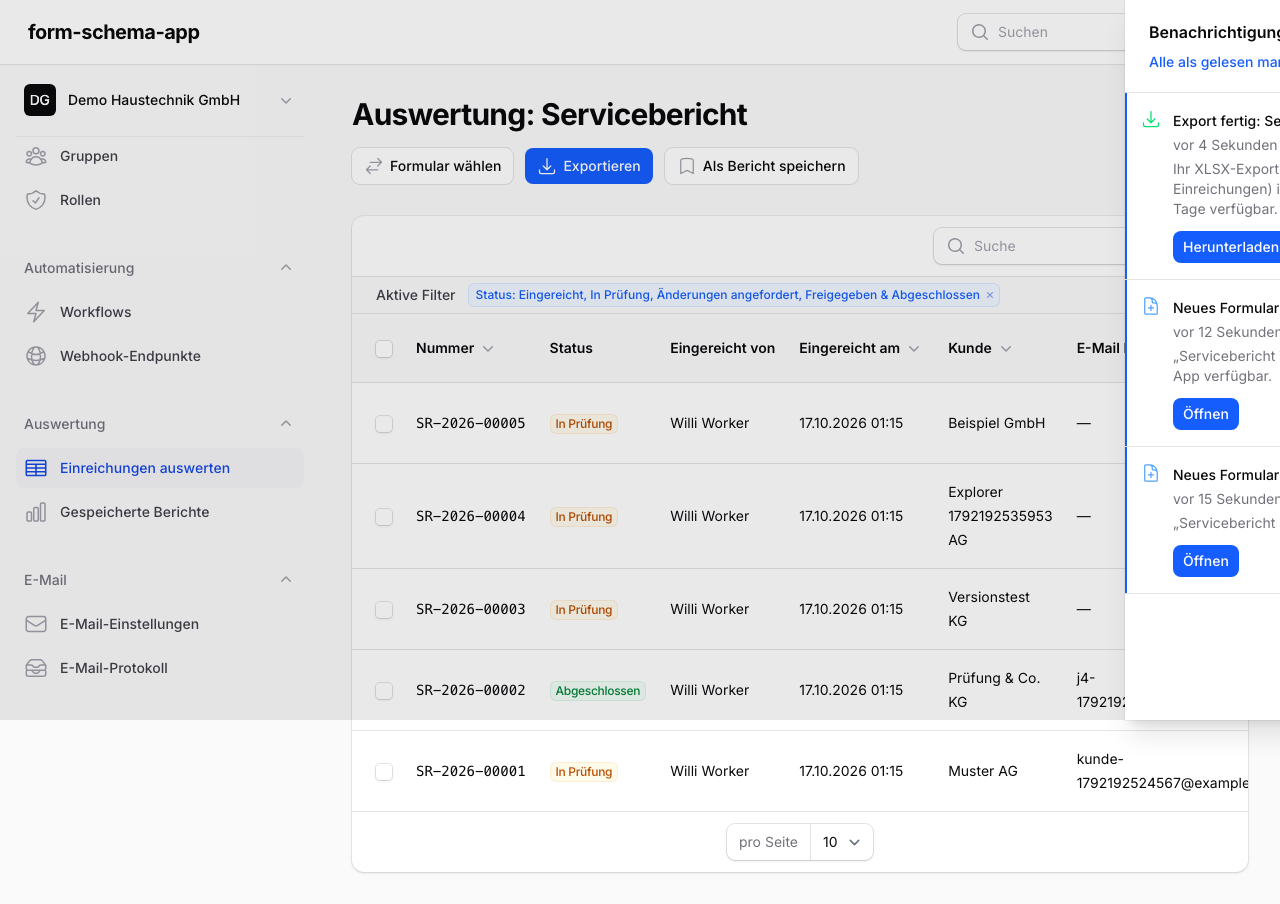
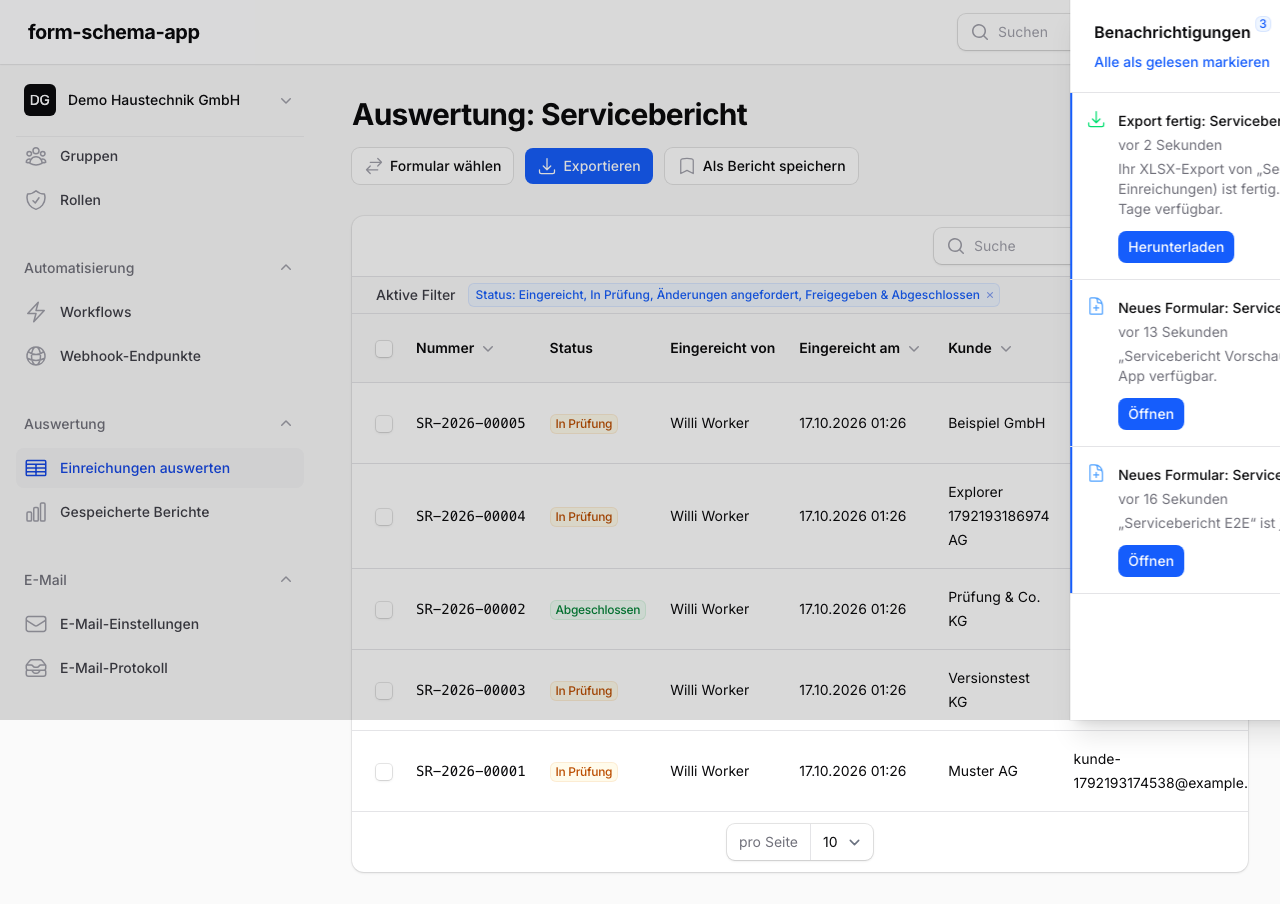
docs: M5 gate report, plan, journal and state

diff --git a/docs/agent/milestones/M5.md b/docs/agent/milestones/M5.md
@@ -1,0 +1,83 @@
+# M5 Reports + dashboards: gate report (2026-10-17)
+
+## What was built
+- **Submission explorer** (§8.4, ADR 0033): one Filament page per form, with columns built from the schema keys. Keys are merged across versions; labels and options come from the newest version.
+  - Money uses the currency of each version.
+  - Filters cover the date range, status, submitter, group and typed field values (choices, yes/no, date, number), plus trigram search.
+  - Bulk export works on a selection.
+  - Visibility follows §8.6 (the view_assigned / view_own scopes).
+  - Queries run on `submission_values`.
+  - Default order is `submitted_at desc, uuid desc`, backed by an index.
+- **Exports**: one queued job (openspout), reusing Filament's `Export` model as `ReportExport`.
+  - Formats:
+    - XLSX, with repeaters on a second sheet linked by number and a currency column after each money field;
+    - CSV in the locale's dialect (de: `;` and decimal comma), protected against formula injection;
+    - a PDF ZIP of renditions.
+  - Rows come from a uuid snapshot read in chunks.
+  - Limits:
+    - "export all" is capped at 50,000 rows;
+    - at most 2 open exports per user, and 10 requests per minute;
+    - exports run on their own `exports` queue with one Horizon process.
+  - When an export finishes, the user gets an `export_ready` notification (bell plus mail, with a "Herunterladen" button). A failed export sends a red notice instead.
+  - Expired links answer 410 with a friendly page.
+  - Filament's own download route is denied (403) because it has no tenant check.
+- **Saved reports**: a form plus every explorer filter, a group-by (field, status, submitter, group, day/week/month) and a metric (count, sum, avg).
+  - Sums and averages are exact decimals computed in SQL, per currency. A group that mixes currencies shows "—" with a note.
+  - At most 500 groups, with a "truncated" note.
+  - Shown as a table and an accessible chart, and downloadable as CSV.
+  - Can be shared with the organization.
+  - Scheduled mails (weekly or monthly) carry a CSV attachment; the mail period replaces a relative report period.
+- **Dashboards** (§8.1, ADR 0034): widget sets derived from permissions.
+  - Owner: KPIs with definitions, submissions over time per form, workflow failures.
+  - Reviewer: review queue, recent submissions.
+  - Designer: draft forms, recently published versions.
+  - Common to all: a date-range filter in the viewer's time zone, a 60 s cache per organization and scope with a "Stand hh:mm" timestamp, and saved reports pinned per user.
+- **Performance tooling**: `app:seed-load {org} {count}`, `app:dashboard-benchmark`, report and dashboard indexes (built CONCURRENTLY), and EXPLAIN-based plan tests that run the real explorer, widget and saved-report queries.
+
+## Acceptance criteria → tests
+| Requirement | Test |
+|---|---|
+| §8.4 AC explorer columns correct for a form with three versions | `tests/Feature/Reports/FieldCatalogTest.php`, `FormExplorerTest.php`, `tests/Unit/Reports/FieldCatalogVersionsTest.php` |
+| §8.4 AC export of 10k submissions completes in the background and notifies | `tests/Feature/Reports/LargeExportTest.php` (10k, flat memory), measured 5.8 s (`evidence/M5/performance.md`) |
+| §8.4 exports (XLSX sheets, CSV, PDF ZIP, limits, snapshot) | `ExportTest.php`, `ExportReviewTest.php`, `FilamentExportRouteTest.php` |
+| §8.4 saved reports, decimal-exact metrics, scheduled mails | `SavedReportQueryTest.php`, `SavedReportResourceTest.php`, `SavedReportReviewTest.php`, `ScheduledReportsTest.php`, `tests/Unit/Reports/ReportValueTest.php`, `ReportFiltersTest.php` |
+| §8.1 AC every widget scoped to the current organization | `tests/Feature/Dashboards/TenantScopingTest.php`, `DashboardCacheTest.php` |
+| §8.1 AC widget queries index-backed at 100k submissions | `tests/Feature/Performance/QueryPlanTest.php`, `SearchPlanTest.php`; measurements at 100k: 0.02–4.2 ms (`evidence/M5/performance.md`) |
+| §8.1 role-aware widgets, date filter, pins | `WidgetRegistryTest.php`, `WidgetDataTest.php`, `DateRangeTest.php`, `DashboardPageTest.php`, `PinnedReportsTest.php`, `DashboardReviewTest.php` |
+| §8.6 "Reports and exports" permissions, audit of exports | `ReportPermissionsTest.php` |
+| §12 journey: explorer → export with notification → saved report pinned | E2E `tests/e2e/m5-reports.spec.ts` |
+
+## Gate results
+- **PHP**: 3766 tests green.
+  - Coverage: total 94.98 %, SDK 99.69 %, `Domain/Forms/Schema` 100 %, tenancy 100 %.
+  - PHPStan level 8 and level 10: 0 errors. Rector and Pint clean. Licenses OK (197 Composer packages).
+- **JS**:
+  - Tests: form-schema-js 606, renderer 110, Field App 297.
+  - Typecheck, ESLint and build clean.
+  - Conformance: 390 cases in PHP and 391 runs in JS, all green.
+- **E2E**: 20/20 in two runs, each on a fresh seed, against the rebuilt Docker stack, which includes the Horizon `supervisor-exports` process. Evidence is in `evidence/M5/`.
+
+## Reviews (security, backend correctness, UX/a11y): no critical findings
+| Finding | Severity | Resolution |
+|---|---|---|
+| Saved report form lost explorer filters on edit | high | every stored filter has a field; explorer saves through SaveReport |
+| Field filters were free text and silently dropped | high | typed inputs; malformed values are form errors |
+| Scheduled mails with relative periods missed the mailed period | high | mail period replaces relative periods; first mail covers the next full period |
+| Scheduled mails failed for orgs with several reports (lazy loading, hidden by `report()`) | high (found while fixing) | eager loading + test |
+| Money summed across currencies of different versions | medium | per-currency aggregates, "—" + note when mixed |
+| Explorer order not index-backed; plan tests used simplified copies | medium | sort index, plan tests on the real queries |
+| Options of older versions missing from labels/filters | medium | options merged across versions |
+| PDF ZIP / exports paged with OFFSET | medium | uuid snapshot, chunks by uuid |
+| Unbounded "export all", no per-user limits, exports on `default` | medium | row cap, pending + rate limits, own queue |
+| Unbounded group-by | medium | 500 groups + truncated note |
+| Hard-coded dates, chart without empty state/a11y, KPI meaning unclear, raw failures, wide table, dark contrast, CSV dialect, wording | low (UX) | fixed (U1–U9) |
+| "Nein" matched unanswered fields; index builds blocked writes | low | answered false only; CONCURRENTLY |
+
+Found by the E2E runs: custom admin views were unstyled because Filament has no compiled theme for arbitrary utilities, so they now use inline styles (LEARNINGS #42). Filament widgets load lazily, so the dashboard check scrolls (LEARNINGS #43).
+
+## Deviations and known issues
+- Users cannot reorder or hide dashboard widgets yet (§8.1 "later").
+- KPIs can lag by up to the cache TTL (60 s); the "Stand" time shows how old they are.
+- Repeater keys that collide after the 64-character cut are detected and logged (`FieldCatalog::collisions()`), not resolved.
+- Text, email and hidden fields can be grouped (the 500-group cap bounds them).
+- `FormExplorerTest`'s search assertion failed once in a combined subagent run and passed in every rerun; there is no known cause, so it is being watched.

diff --git a/docs/agent/PLAN.md b/docs/agent/PLAN.md
@@ -90,14 +90,14 @@ AC refs point at BUILD_PROMPT sections. Test approach in brackets.
 - [x] M4-T12 Gate M4
 
 ## M5 Reports + dashboards (branch `m5-reports`)
-- [ ] M5-T01 Submission explorer per form: Filament page with dynamic columns from schema keys (union across versions by key, labels from the newest version), filters (date, status, submitter, group, field values for select/boolean/date/number), search, bulk actions; queries `submission_values`; visibility per §8.6 — §8.4 [Livewire + AC: three versions]
-- [ ] M5-T02 Exports: custom queued export job (openspout, reusing Filament's `Export` model + completion notifications) as XLSX (repeaters on a second sheet linked by number) and CSV, bulk PDF ZIP of renditions; `export_ready` notification event; decimal-exact money — §8.4 [feature + AC: 10k in background, notifies]
-- [ ] M5-T03 Saved reports: form + filters + group-by + metric (count, sum, avg) as table and chart, decimal-exact sums in SQL; share within the organization by permission; scheduled report emails (weekly/monthly, CSV attachment) — §8.4 [feature]
-- [ ] M5-T04 Dashboards: role-aware defaults (Owner KPIs: submissions this week, pending reviews, stale drafts, documents sent; submissions over time per form; workflow failures — Reviewer: review queue, recent submissions — Designer: draft forms, recently published), date-range filter, per-org cache with short TTL; pin saved reports as widgets — §8.1 [Livewire + AC: tenant scoping]
-- [ ] M5-T05 Performance: load generator (`app:seed-load {org} {count}`), `submission_values` and widget queries index-backed at 100k submissions (EXPLAIN-based tests), export of 10k measured — §8.1 AC, §8.4 AC [feature + measurement]
-- [ ] M5-T06 Permissions: "Reports and exports" column (§8.6) + "View submissions" row for exported rows; audit exports — §8.6, §8.11 [matrix tests]
-- [ ] M5-T07 E2E: explorer columns across versions, export downloads with notification, saved report pinned on the dashboard — §12
-- [ ] M5-T08 Gate M5
+- [x] M5-T01 Submission explorer per form: Filament page with dynamic columns from schema keys (union across versions by key, labels from the newest version), filters (date, status, submitter, group, field values for select/boolean/date/number), search, bulk actions; queries `submission_values`; visibility per §8.6 — §8.4 [Livewire + AC: three versions]
+- [x] M5-T02 Exports: custom queued export job (openspout, reusing Filament's `Export` model + completion notifications) as XLSX (repeaters on a second sheet linked by number) and CSV, bulk PDF ZIP of renditions; `export_ready` notification event; decimal-exact money — §8.4 [feature + AC: 10k in background, notifies]
+- [x] M5-T03 Saved reports: form + filters + group-by + metric (count, sum, avg) as table and chart, decimal-exact sums in SQL; share within the organization by permission; scheduled report emails (weekly/monthly, CSV attachment) — §8.4 [feature]
+- [x] M5-T04 Dashboards: role-aware defaults (Owner KPIs: submissions this week, pending reviews, stale drafts, documents sent; submissions over time per form; workflow failures — Reviewer: review queue, recent submissions — Designer: draft forms, recently published), date-range filter, per-org cache with short TTL; pin saved reports as widgets — §8.1 [Livewire + AC: tenant scoping]
+- [x] M5-T05 Performance: load generator (`app:seed-load {org} {count}`), `submission_values` and widget queries index-backed at 100k submissions (EXPLAIN-based tests), export of 10k measured — §8.1 AC, §8.4 AC [feature + measurement]
+- [x] M5-T06 Permissions: "Reports and exports" column (§8.6) + "View submissions" row for exported rows; audit exports — §8.6, §8.11 [matrix tests]
+- [x] M5-T07 E2E: explorer columns across versions, export downloads with notification, saved report pinned on the dashboard — §12
+- [x] M5-T08 Gate M5
 
 ## M6 Offline-first — break down at M5 gate
 - Dexie store; outbox + sync engine (start/online/visibilitychange/manual, Background Sync enhancement); attachment queue + compression + EXIF strip; conflict UI on 409; storage persistence + iOS install prompt; logout wipe; device wipe; incremental manifest: fetch every `fillable_form_ids` entry not cached (role grants touch no form, ADR 0027); E2E journeys 3, 7.

diff --git a/docs/agent/STATE.md b/docs/agent/STATE.md
@@ -1,26 +1,23 @@
-# State: 2026-10-17T23:30Z
-Milestone: M5 Reports + dashboards · Branch m5-reports (M4 merged, tags m4-done + v0.1.0 MVP)
-Tasks in flight (2 subagents, shared working tree, nothing committed by them):
-- Reports agent: M5-T01 explorer, T02 exports (openspout, Filament Export model, export_ready),
-  T03 saved reports + scheduled mails, T06 permissions — DB form_schema_test_b.
-- Dashboards agent: M5-T04 role-aware widgets + date filter + cache, T05 load generator, indexes,
-  EXPLAIN tests, measurements (evidence/M5/performance.md) — DB form_schema_test_c; may seed 100k rows
-  into the dev DB temporarily and restore it.
+# State: 2026-10-17T23:45Z
+Milestone: M6 Offline-first · Branch m6-offline (M5 merged, tag m5-done)
+Tasks in flight: none yet; M6 broken down in PLAN (M6-T01..T11).
 Last commit: see `git log -1`
 
 ## Next actions
-1. Review + commit each batch (explicit paths; AdminPanelProvider and NotificationEvent are touched by
-   one agent each).
-2. Integration: pin saved reports as dashboard widgets (SavedReportQuery API + dashboard extension
-   point); E2E M5-T07 (explorer across versions, export with notification, pinned report).
-3. Gate M5: coverage.sh, PHPStan 0/0, Rector + Pint, JS, conformance, Docker rebuild + reseed, E2E,
-   three reviewers, M5.md; merge, tag m5-done; branch m6-offline; break down M6.
+1. ADR 0035 offline architecture (Dexie schema, outbox order, sync triggers, SW scope, versions:
+   Dexie 4.4.6, vite-plugin-pwa 2.0.0, Workbox 7.4.1, fake-indexeddb 6.2.6; verified on npm).
+2. Dispatch Field App agents with disjoint ownership: store + autosave + outbox/sync (T01–T03, T05),
+   attachments + catalog/manifest + PWA shell (T04, T06), UX + logout/wipe (T07, T08); API-side
+   gaps (manifest, wipe) by a backend agent if needed.
+3. Totals parity test (T09), E2E journeys 3 and 7 + killed tab + wipe (T10), gate M6 (T11).
 
 ## Known problems
 - Builder page heavy (QUESTIONS #8); preview iframe same-origin (QUESTIONS #10, M8).
-- E2E: Filament login throttle — `php artisan cache:clear` in the app container between quick reruns.
+- E2E: run via `npm run e2e` (browsers in storage/playwright); `php artisan cache:clear` in the app
+  container between quick reruns (Filament login throttle).
+- E2E runs rewrite evidence PNGs of earlier milestones: `git checkout` them before committing.
 
 ## Resume commands
 docker compose up -d
-DB_DATABASE=form_schema_test php artisan test --compact
+DB_DATABASE=form_schema_test php artisan test --compact --parallel
 vendor/bin/rector --dry-run --no-progress-bar   # CI gate, must be 0 files

diff --git a/docs/agent/JOURNAL.md b/docs/agent/JOURNAL.md
@@ -71,3 +71,11 @@
 - Reviews: no critical/high; ~25 medium/low fixed (47fcef4, 58d6e8e).
 - Gate: PHP 3594 tests, coverage 94.84 %, PHPStan 0/0, Rector/Pint clean, JS 606/110/297, E2E 18/18 ×2.
   CHANGELOG + release notes; tag v0.1.0.
+
+## 2026-10-17 M5 gate
+- Two parallel agents (reports, dashboards) → beb328b, 521fa13; integration: pins, Filament export route
+  guard, trigram search (a1dc346); E2E M5 journey; custom views inline-styled (no theme, LEARNINGS #42).
+- Reviews: no critical; 3 high + ~20 medium/low fixed by one fix agent (34dcabe), which also found scheduled
+  mails failing on lazy loading for orgs with several reports.
+- Gate: PHP 3766 tests, coverage 94.98 %, PHPStan 0/0, Rector/Pint clean, JS 606/110/297, conformance
+  390/391, E2E 20/20 ×2 on fresh seeds.
